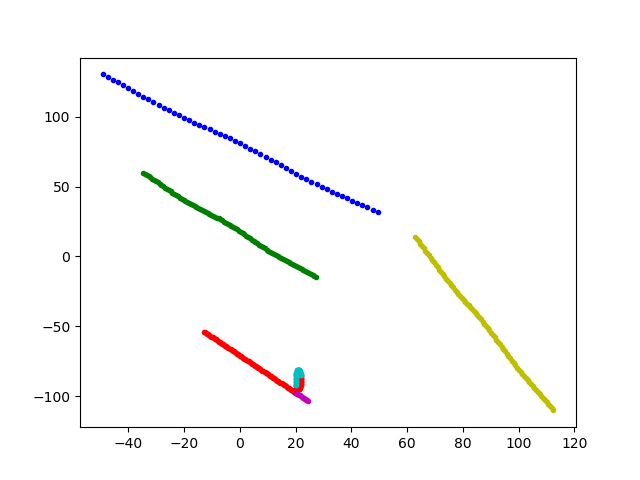
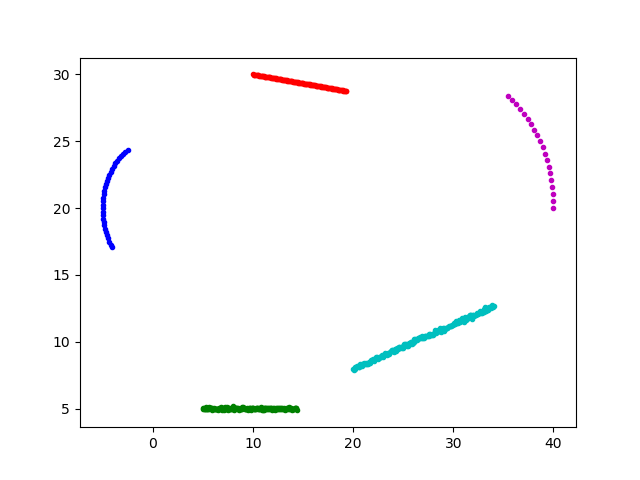
fix shape_generator

diff --git a/shape_generator.py b/shape_generator.py
@@ -20,14 +20,18 @@ def get_points_from_file(filename):
         return points
 
 
-def gen_shape(min_p, max_p, func, limit=10):
-    a = random.randint(-limit, limit)
-    b = random.randint(-limit, limit)
+def gen_shape(a, b, x0, y0, func, radian_low=0, radian_high=np.pi):
+    return [func(t, a, b, x0, y0) for t in np.arange(radian_low, radian_high, np.pi/60)]
 
-    x0 = random.randint(-limit**2, limit**2)
-    y0 = random.randint(-limit**2, limit**2)
 
-    return [func(t, a, b, x0, y0) for t in np.arange(0, 2*np.pi, 4*np.pi / random.randint(min_p, max_p))]
+def gen_rand_shape(min_p, max_p, func, random_limit=10):
+    a = random.randint(-random_limit, random_limit)
+    b = random.randint(-random_limit, random_limit)
+
+    x0 = random.randint(-random_limit, random_limit)
+    y0 = random.randint(-random_limit, random_limit)
+
+    return [func(t, a, b, x0, y0) for t in np.arange(0, np.pi, 4*np.pi / random.randint(min_p, max_p))]
 
 
 def line(t, a, b, x0, y0):
@@ -35,7 +39,7 @@ def line(t, a, b, x0, y0):
 
 
 def zigzag_line(t, a, b, x0, y0):
-    return a*t + x0, np.cos(t) + b*t + y0
+    return a*t + x0, b*t + + random.normalvariate(y0, y0 / 100)
 
 
 def ellipse(t, a, b, x0, y0):
@@ -43,16 +47,18 @@ def ellipse(t, a, b, x0, y0):
 
 
 def plot_points(points):
-    plt.plot(*zip(*points), marker='o', color='r', ls='')
+    plt.plot(*zip(*points), marker='o', markersize=3, color='r', ls='')
     plt.savefig("output//points_plot.png")
 
 
 if __name__ == "__main__":
-    points = gen_shape(50, 100, zigzag_line)
-    points = points + gen_shape(50, 100, ellipse)
-    points = points + gen_shape(50, 100, line)
-    points = points + gen_shape(50, 100, zigzag_line)
-    points = points + gen_shape(50, 100, zigzag_line)
+    points = gen_shape(10, 10, 30, 20, ellipse, radian_high=np.pi/3)
+    points = points + gen_shape(5, 5, 0, 20, ellipse, radian_low=2*np.pi/3, radian_high=1.2*np.pi)
+    points = points + gen_shape(1, 0, 5, 5, zigzag_line, radian_high=3*np.pi)
+    points = points + gen_shape(1.5, 0.5, 20, 8, zigzag_line, radian_high=3*np.pi)
+    points = points + gen_shape(1.5, -0.2, 10, 30, line, radian_high=2*np.pi)
+
+
     save_points_to_file("line.txt", points)
     plot_points(points)
 

diff --git a/clusterezation.py b/clusterezation.py
@@ -115,7 +115,7 @@ def plot_clusters(clusters):
 
 
 if __name__ == "__main__":
-    star_points = get_points_from_file("map2.txt")
+    star_points = get_points_from_file("line.txt")
     clusters = clustered(star_points, 5)
     plot_clusters(clusters)
     find_lines(clusters, 0.9)
